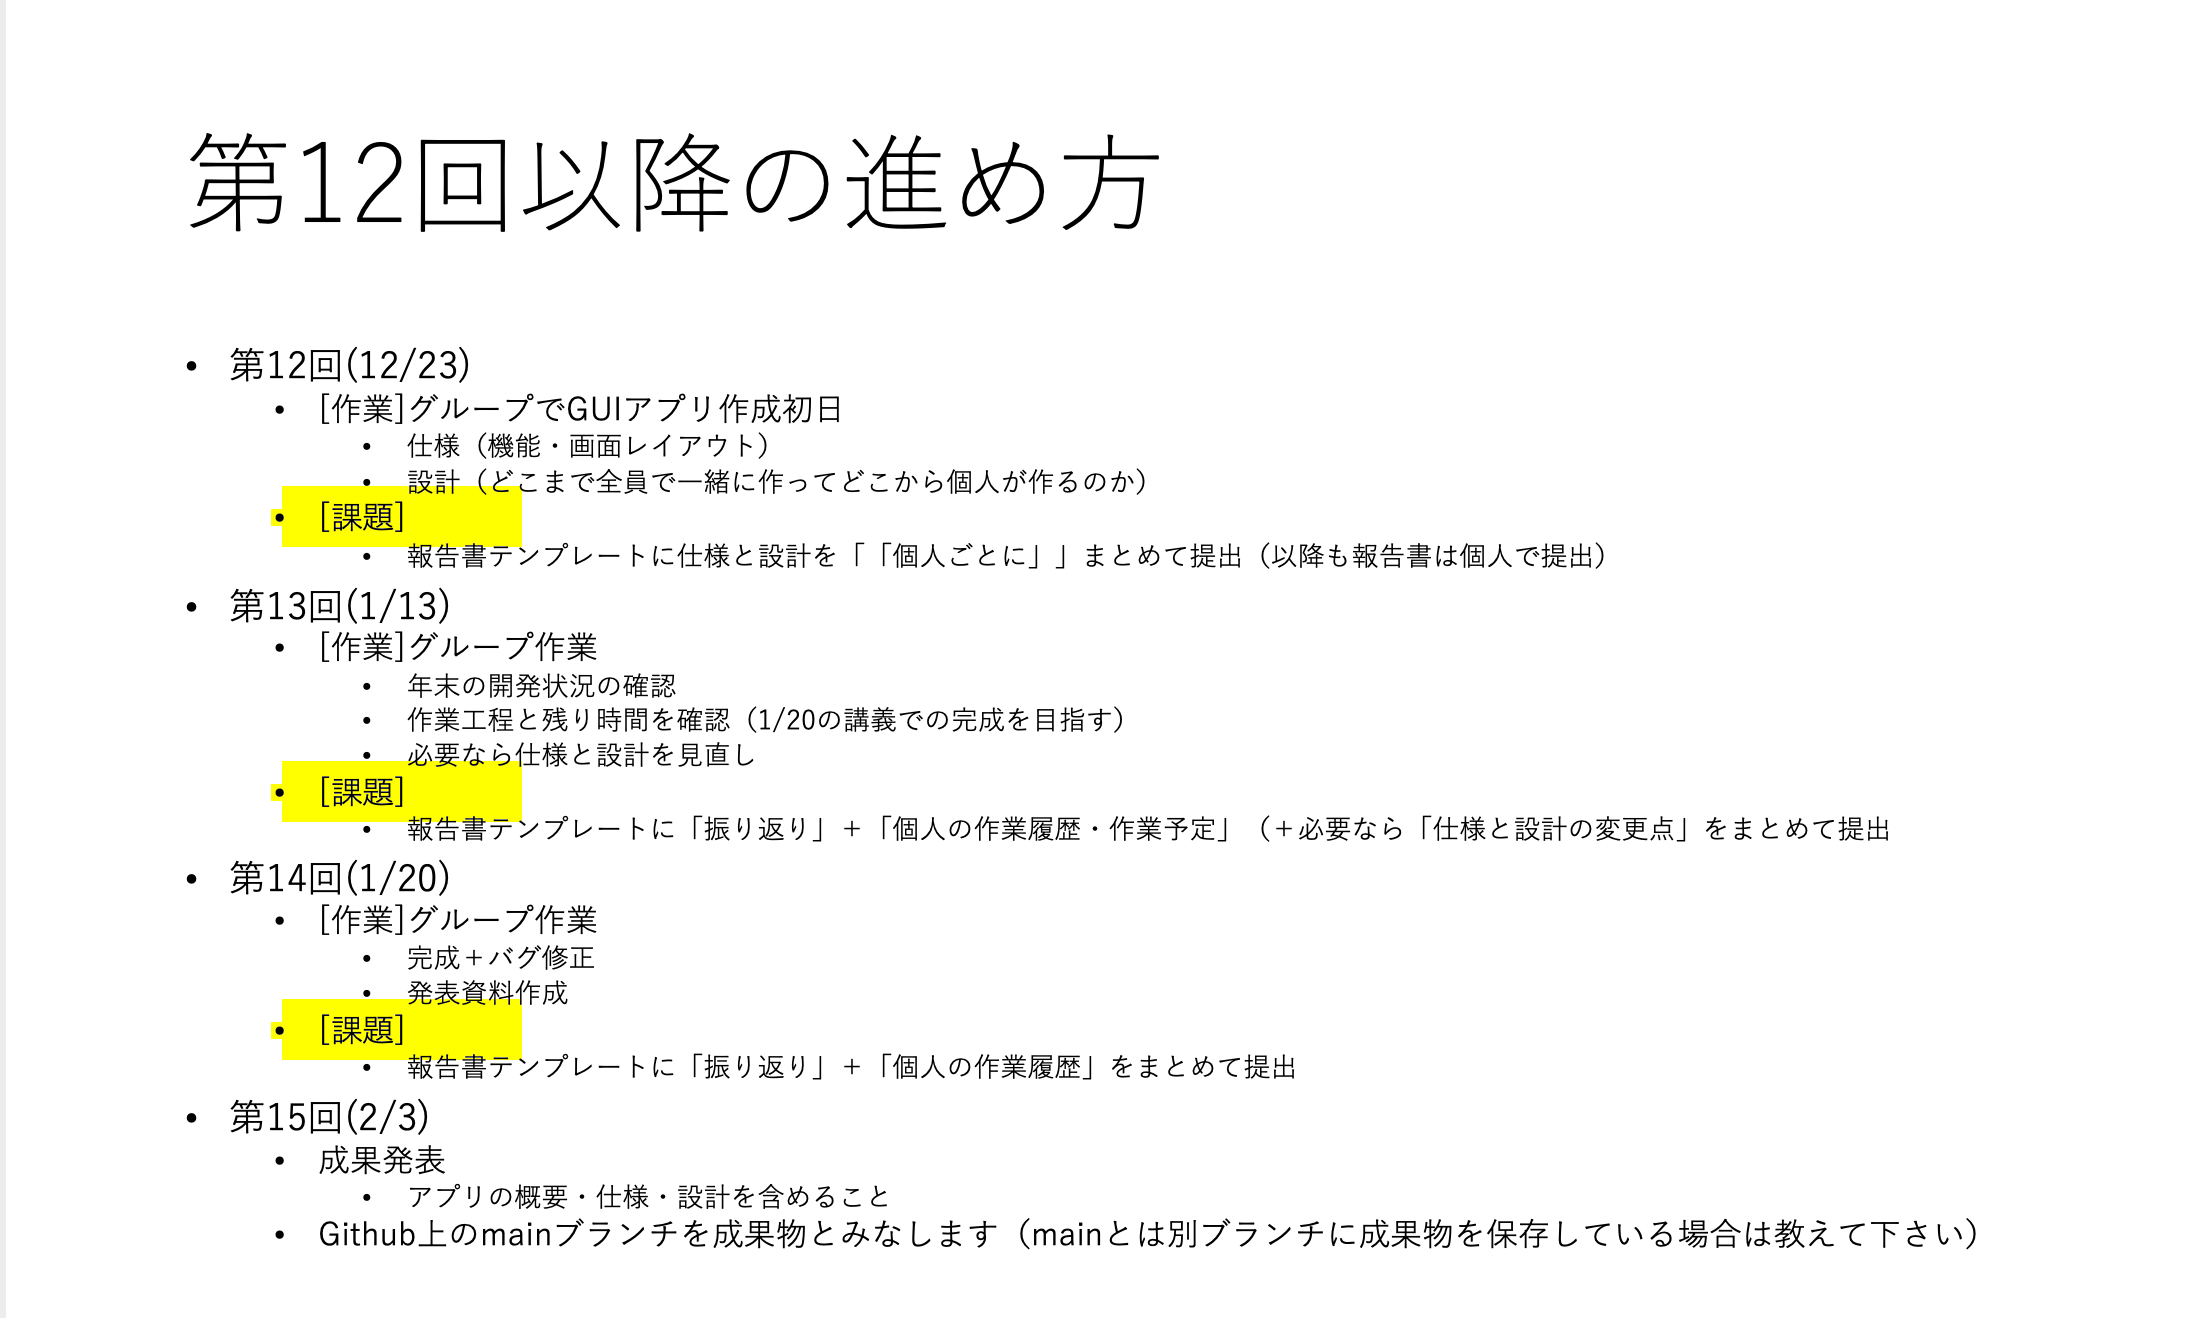
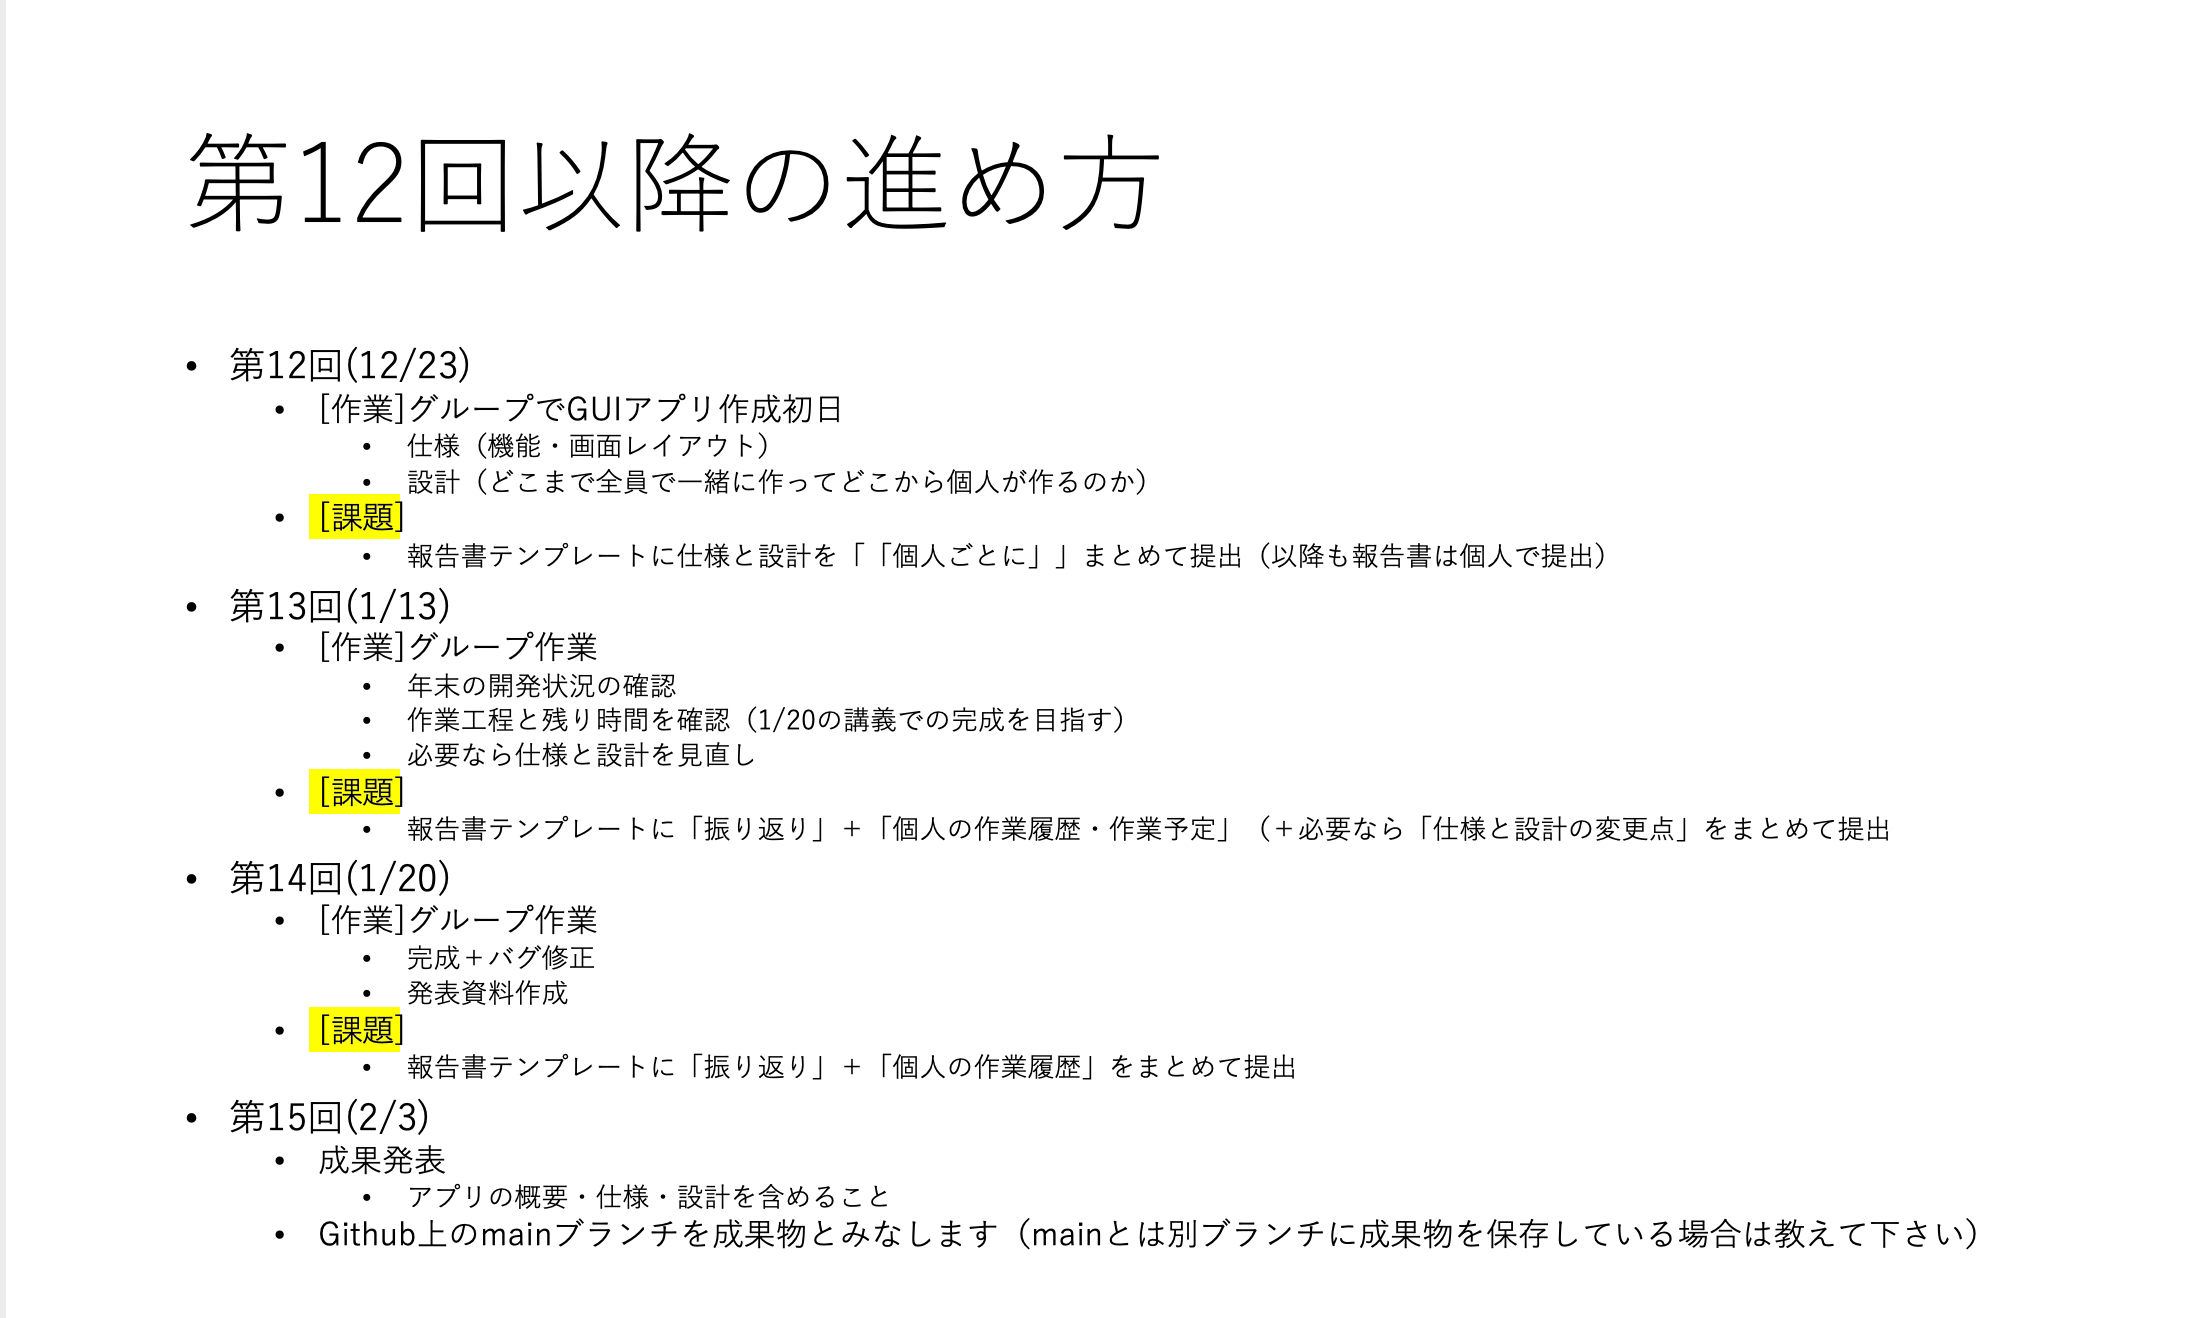
character_search 1/15

Changed region(s): [[0.1244, 0.3422, 0.2489, 0.4355], [0.1244, 0.7466, 0.2489, 0.8088], [0.1244, 0.5599, 0.2489, 0.6222]]

diff --git a/character_search.py b/character_search.py
@@ -27,85 +27,127 @@ def character_search(name,str):
     
     #print(text[0])
     #　指定された文字の検索、ハイライト処理 
-    # とりあえず”小路”で実行する
-    # "小路"を一文字ずつに分ける
+    # 検索する文字を一文字ずつに分ける
     serch = list(str)
     
     #現在の文字数のインデックス
     j=0
-    i=0
     #　指定された文字の検索、ハイライト処理 
     # とりあえず”小路”で実行する
     #print(len(text))
     for line_box in text:
         #print(type(line_box))
 
-        #print(f"{t}&{u}")
         #print(f"{i}:{line_box}")
         #print(line_box.position[0][0])
-        i=i+1
         num_y = line_box.position[0][1]
         num_x = line_box.position[0][0]
         
         #print(line_box.content, line_box.position)
 
-        #length = 探したい文字の文字数
+        #length = 検索する　文字の文字数
         length = len(serch)
+        #検索する文字が無いとき
+        if length == 0:
+            break
         
         #t=検知した文字を探したい文字の文字数分、一文字ずつ持つリスト
         t = []
         for l in range(length):
-            t += text[j+l].content
+            try:
+                t += text[j+l].content
+                print(f"{text[j+l].content} & ",end='')
+            except IndexError:
+                break
+            if len(t) >= length:
+                break
+        print()
 
         #print(t)
 
-        #m=検索する文字の場所を管理
-        m = 0 
-        for k in range(len(t)):
-            if t[k] == serch[m]:
-                if m < length-1:
-                    m+=1
-                if t[k] == serch[length-1]:
-                    print(t)
-                    print("-------------検知-----------")
-                    #tate=文字の縦の長さ　tate_amp=文字の縦方向塗り潰しの増幅度
-                    tate = line_box.position[1][1] - line_box.position[0][1]
-                    tate_amp = tate/2
-                    #print(tate)
-                    #yoko=文字の横の長さ　yoko_amp=文字の横方向塗り潰しの増幅度
-                    yoko = (line_box.position[1][0] - line_box.position[0][0])
-                    yoko_amp = yoko/2
-                    #print(tate)
-                    #print(yoko)
-                    #print('-----------------!')
-                    #print(len(line_box.content))
-                    
-                    #塗り潰し文字の左したの画素
-                    num_y = line_box.position[0][1]
+        if len(t) < len(serch):
+            break
+        #一文字目か二文字目が検索する文字の一文字目と一致したとき(length=1のときはt[1]がないので無条件で通すようにしている)
+        elif t[0] == serch[0] or length == 1 or t[1] == serch[0]:
+            #print(t)
+            #m=検索する文字の場所を管理
+            m = 0 
+            for k in range(len(t)):
+                if t[k] == serch[m]:
+                    if m < length-1:
+                        m+=1
+                    if t[k] == serch[length-1]:
+                        #print(t)
+                        print("-------------検知-----------")
+                        #tate=文字の縦の長さ　tate_amp=文字の縦方向塗り潰しの増幅度
+                        tate = line_box.position[1][1] - line_box.position[0][1]
+                        tate_amp = tate/4
+                        #print(tate)
+                        #yoko=文字の横の長さ　yoko_amp=文字の横方向塗り潰しの増幅度
+                        yoko = (line_box.position[1][0] - line_box.position[0][0])/len(line_box.content)
+                        yoko_amp = yoko/2
+                        #print(tate)
+                        #print(yoko)
+                        #print(line_box.position[1][0] - line_box.position[0][0])
+                        #print('-----------------!')
+                        #print(len(line_box.content))
+                        
+                        #塗り潰し文字の左したの画素
+                        num_y = line_box.position[0][1]
 
-                    #塗り潰し文字の左うえの画素
-                    num_x = line_box.position[0][0]
-                
-                    #2値化画像をtmpに代入
-                    tmp = bin_img.bin(sorce_img)
-                    #2値化画像が黒い座標の色を変える
-                    for y in range(num_y-int(tate_amp),num_y+int(tate)+int(tate_amp)):
-                        for x in range(num_x-int(yoko_amp),num_x+int(yoko)*length+int(yoko_amp)):#文字数文範囲を増やしている
-                            s = tmp[y, x]
-                            b, g, r = sorce_img[y, x]
-                            if s == 255:
-                                continue
-                            sorce_img[y, x] = 0, g, r #元の画像がb=0だと変わらない
+                        #塗り潰し文字の左うえの画素
+                        num_x = line_box.position[0][0]
+
+                        if t[0] == serch[0]:
+                            scope = length
+                        else:
+                            scope = len(t)
+                    
+                        #2値化画像をtmpに代入
+                        tmp = bin_img.bin(sorce_img)
+                        #2値化画像が黒い座標の色を変える
+                        for y in range(num_y-int(tate_amp),num_y+int(tate)+int(tate_amp)):
+                            for x in range(num_x-int(yoko_amp),num_x+(int(yoko)*scope)):#文字数分範囲を増やしている
+                                try:
+                                    s = tmp[y, x]
+                                    b, g, r = sorce_img[y, x]
+                                    if s == 255:
+                                        continue
+                                    sorce_img[y, x] = 0, g, r #元の画像がb=0だと変わらない
+                                except IndexError:
+                                    break
                 #for word_box in line_box.word_boxes:
                     #print('  ', word_box.content, word_box.position)
                     #cv2.rectangle(sorce_img, word_box.position[0][:], word_box.position[1][:], (255, 0, 0), thickness=1, lineType=cv2.LINE_8, shift=0)
+        '''
         if text[j+length-1]!=None:
             j+=1
         if len(text)-length-1==j+1:break
         #print(f"番目：{j}")
+        '''
+        try:
+            text[j+1]
+            j+=1
+            #print(f"番目：{j}")
+        except IndexError:
+            break
+
     cv2.imwrite('sample.png',sorce_img)
     print("終了")
 
 
+
 if __name__ == "__main__":
     character_search('sample1.png','課題')
+
+    #デバック用文字列
+    '''
+    課題
+    個人
+    作業
+    報告書テンプレート
+    main
+    下さい
+    い
+
+    '''
